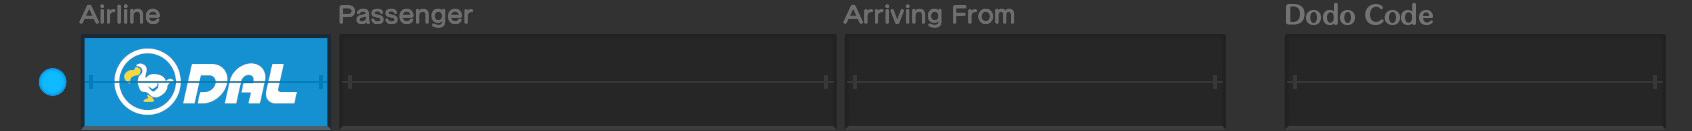
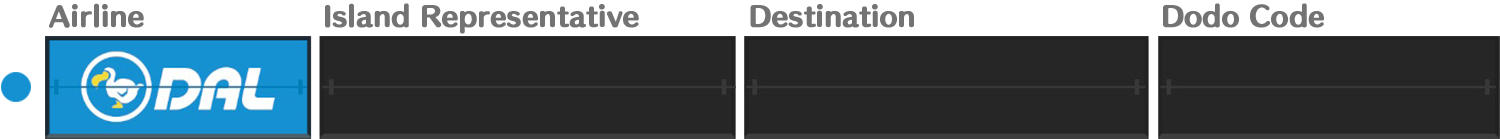
changed image to enlargen it a little, also text alignment is now automatic

diff --git a/graphic.js b/graphic.js
@@ -16,34 +16,53 @@ module.exports =
             context.drawImage(image, 0, 0, width, height);
             if(island.title)
             {
+                const xpos = titleconfig.xpos + titleconfig.width / 2;
+                const ypos = titleconfig.ypos + titleconfig.height / 2;
                 context.font = titleconfig.fontsize + " Comic Sans MS";
                 context.fillStyle = "white";
                 context.textAlign = "center";
-                context.fillText(island.title, titleconfig.xpos, titleconfig.ypos);
+                context.textBaseline = "middle";
+                context.fillText(island.title, xpos, ypos, titleconfig.width);
             }
             
             if(island.name)
             {
-                context.font = nameconfig.fontsize + " Comic Sans MS";
+                let xpos = nameconfig.xpos + nameconfig.width / 2;
+                let ypos = nameconfig.ypos + nameconfig.height / 2;
+                let fontsize = nameconfig.fontsize;
+                if(!island.title)
+                {
+                    xpos = titleconfig.xpos + titleconfig.width / 2;
+                    ypos = titleconfig.ypos + (titleconfig.height + nameconfig.height) / 2;
+                    fontsize = nameconfig.alternativeFontsize;
+                }
+                context.font = fontsize + " Comic Sans MS";                
                 context.fillStyle = "white";
                 context.textAlign = "center";
-                context.fillText(island.name, nameconfig.xpos, nameconfig.ypos);
+                context.textBaseline = "middle";
+                context.fillText(island.name, xpos, ypos, nameconfig.width);
             }
 
             if(island.island)
             {
+                const xpos = islandconfig.xpos + islandconfig.width / 2;
+                const ypos = islandconfig.ypos + islandconfig.height / 2;
                 context.font = islandconfig.fontsize + " Comic Sans MS";
                 context.fillStyle = "white";
                 context.textAlign = "center";
-                context.fillText(island.island, islandconfig.xpos, islandconfig.ypos);
+                context.textBaseline = "middle";
+                context.fillText(island.island, xpos, ypos, islandconfig.width);
             }
 
             if(island.dodocode)
             {
+                const xpos = dodocodeconfig.xpos + dodocodeconfig.width / 2;
+                const ypos = dodocodeconfig.ypos + dodocodeconfig.height / 2;
                 context.font = dodocodeconfig.fontsize + " Comic Sans MS";
                 context.fillStyle = "white";
                 context.textAlign = "center";
-                context.fillText(island.dodocode, dodocodeconfig.xpos, dodocodeconfig.ypos);
+                context.textBaseline = "middle";
+                context.fillText(island.dodocode, xpos, ypos, dodocodeconfig.width);
             }
 
             loadImage('./dodo_code_lines.png').then(image => {
